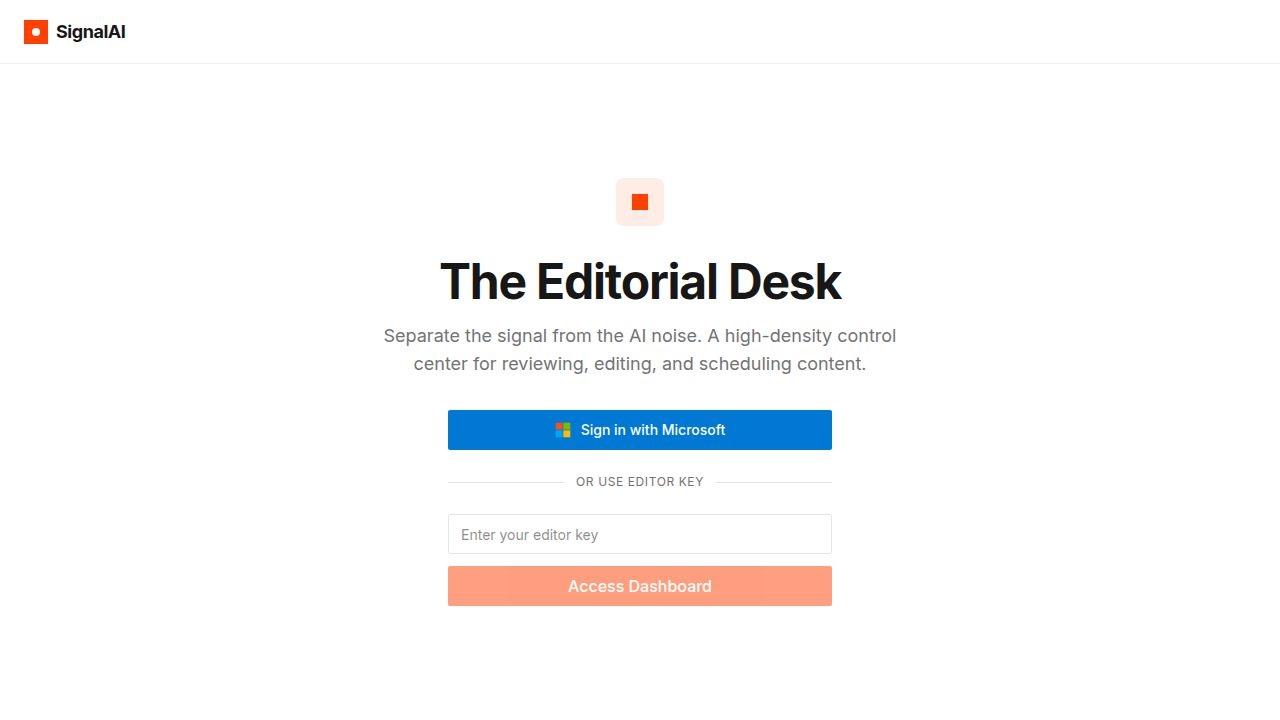
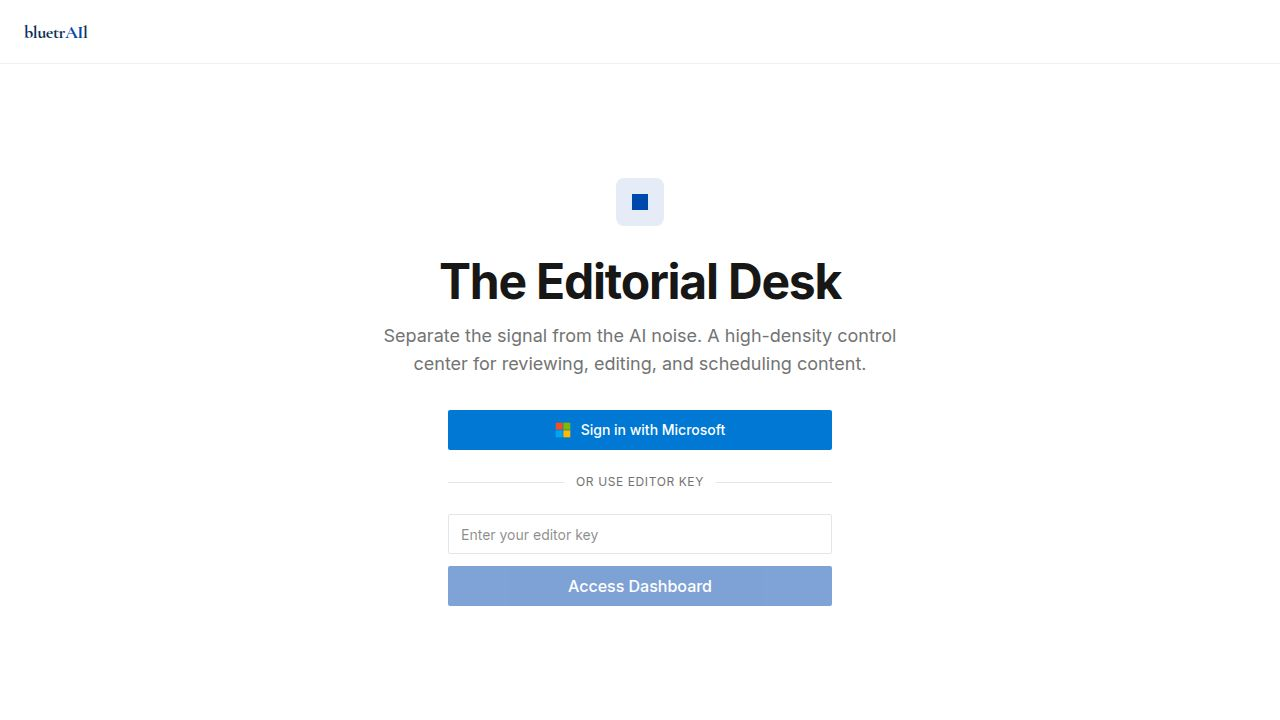
Add article type filter (Article / Case Study / Spotlight) to editorial queue
Task: Let editors filter the queue by article type (Article / Case Study / Spotlight)

## What changed
- Added `ArticleTypeFilter` type and `CASE_STUDY_CATEGORY` / `SPOTLIGHT_CATEGORY` slug
  constants directly in Queue.tsx (matching the values in api-server/src/lib/content.ts)
- Added `articleTypeFilter` state (`"all" | "article" | "case-study" | "spotlight"`) that
  persists across status tab switches
- Extended `filteredDrafts` with a `matchesTypeFilter()` helper that applies after the
  existing search filter, client-side only (no API changes)
- Added a shadcn/ui `<Select>` dropdown ("All types / Article / Case Study / Spotlight")
  in the queue toolbar header between the sort toggle and the Import button
- Updated `QueueEmptyState` to accept `articleTypeFilter` and show "No [Type] drafts"
  when a type filter is active and the list is empty (alongside existing search-empty state)

## No deviations from plan
- Implementation exactly matches the task spec: client-side only, no API/spec changes,
  uses existing shadcn Select component, filter persists across status tabs

## Files changed
- artifacts/dashboard/src/pages/Queue.tsx

Replit-Task-Id: 97366449-1e5a-4731-8048-92efddc00ec7

Changed region(s): [[0.3438, 0.7639, 0.6562, 0.8556], [0.4688, 0.2444, 0.5312, 0.3056], [0.0, 0.0306, 0.0938, 0.0611]]

diff --git a/artifacts/dashboard/src/pages/Queue.tsx b/artifacts/dashboard/src/pages/Queue.tsx
@@ -17,6 +17,13 @@ import { DraftStatusBadge } from "@/components/DraftStatusBadge";
 import { Input } from "@/components/ui/input";
 import { Button } from "@/components/ui/button";
 import { Card } from "@/components/ui/card";
+import {
+  Select,
+  SelectContent,
+  SelectItem,
+  SelectTrigger,
+  SelectValue,
+} from "@/components/ui/select";
 import { Calendar } from "@/components/ui/calendar";
 import { Popover, PopoverContent, PopoverTrigger } from "@/components/ui/popover";
 import {
@@ -54,8 +61,12 @@ import { cn } from "@/lib/utils";
 
 const API_BASE = "/api";
 
+const CASE_STUDY_CATEGORY = "case-study";
+const SPOTLIGHT_CATEGORY = "spotlight";
+
 type TabValue = "all" | "scheduled" | ArticleStatus;
 type SortKey = "editDate" | "publishDate";
+type ArticleTypeFilter = "all" | "article" | "case-study" | "spotlight";
 
 const STATUS_BORDER: Record<string, string> = {
   pending: "bg-orange-400",
@@ -79,6 +90,7 @@ export default function Queue({ initialTab = "all" }: { initialTab?: TabValue })
   const [activeTab, setActiveTab] = useState<TabValue>(initialTab);
   const [searchQuery, setSearchQuery] = useState("");
   const [sortBy, setSortBy] = useState<SortKey>("editDate");
+  const [articleTypeFilter, setArticleTypeFilter] = useState<ArticleTypeFilter>("all");
   const [rescheduleTarget, setRescheduleTarget] = useState<{ id: number; title: string } | null>(null);
   const [rescheduleDate, setRescheduleDate] = useState<Date | undefined>();
 
@@ -233,17 +245,26 @@ export default function Queue({ initialTab = "all" }: { initialTab?: TabValue })
     return [...list].sort((a, b) => new Date(b.updatedAt).getTime() - new Date(a.updatedAt).getTime());
   };
 
+  const matchesTypeFilter = (category: string) => {
+    if (articleTypeFilter === "all") return true;
+    if (articleTypeFilter === "case-study") return category === CASE_STUDY_CATEGORY;
+    if (articleTypeFilter === "spotlight") return category === SPOTLIGHT_CATEGORY;
+    return category !== CASE_STUDY_CATEGORY && category !== SPOTLIGHT_CATEGORY;
+  };
+
   const filteredDrafts = sortDrafts(
     activeTab === "scheduled"
       ? scheduledDrafts.filter(
           (d) =>
-            d.title.toLowerCase().includes(searchQuery.toLowerCase()) ||
-            d.category.toLowerCase().includes(searchQuery.toLowerCase())
+            matchesTypeFilter(d.category) &&
+            (d.title.toLowerCase().includes(searchQuery.toLowerCase()) ||
+              d.category.toLowerCase().includes(searchQuery.toLowerCase()))
         )
       : allDrafts.filter(
           (d) =>
-            d.title.toLowerCase().includes(searchQuery.toLowerCase()) ||
-            d.category.toLowerCase().includes(searchQuery.toLowerCase())
+            matchesTypeFilter(d.category) &&
+            (d.title.toLowerCase().includes(searchQuery.toLowerCase()) ||
+              d.category.toLowerCase().includes(searchQuery.toLowerCase()))
         )
   );
 
@@ -294,6 +315,18 @@ export default function Queue({ initialTab = "all" }: { initialTab?: TabValue })
               Publish date
             </button>
           </div>
+
+          <Select value={articleTypeFilter} onValueChange={(v) => { if (v) setArticleTypeFilter(v as ArticleTypeFilter); }}>
+            <SelectTrigger className="w-36 h-8 text-xs shrink-0">
+              <SelectValue placeholder="Type" />
+            </SelectTrigger>
+            <SelectContent>
+              <SelectItem value="all">All types</SelectItem>
+              <SelectItem value="article">Article</SelectItem>
+              <SelectItem value="case-study">Case Study</SelectItem>
+              <SelectItem value="spotlight">Spotlight</SelectItem>
+            </SelectContent>
+          </Select>
 
           <Button
             variant="outline"
@@ -393,7 +426,7 @@ export default function Queue({ initialTab = "all" }: { initialTab?: TabValue })
           }}
         />
       ) : filteredDrafts.length === 0 ? (
-        <QueueEmptyState tab={activeTab} searchQuery={searchQuery} />
+        <QueueEmptyState tab={activeTab} searchQuery={searchQuery} articleTypeFilter={articleTypeFilter} />
       ) : (
         <div className="space-y-2">
           {filteredDrafts.map((draft, i) => (
@@ -637,14 +670,25 @@ export default function Queue({ initialTab = "all" }: { initialTab?: TabValue })
   );
 }
 
-function QueueEmptyState({ tab, searchQuery }: { tab: TabValue; searchQuery: string }) {
-  if (searchQuery) {
+const ARTICLE_TYPE_LABELS: Record<ArticleTypeFilter, string> = {
+  all: "All types",
+  article: "Article",
+  "case-study": "Case Study",
+  spotlight: "Spotlight",
+};
+
+function QueueEmptyState({ tab, searchQuery, articleTypeFilter }: { tab: TabValue; searchQuery: string; articleTypeFilter: ArticleTypeFilter }) {
+  if (searchQuery || articleTypeFilter !== "all") {
     return (
       <div className="text-center py-20 border-2 border-dashed border-border rounded-xl">
         <div className="w-12 h-12 bg-muted rounded-full flex items-center justify-center mx-auto mb-3">
           <Search className="w-5 h-5 text-muted-foreground" />
         </div>
-        <h3 className="text-base font-semibold mb-1">No matches for "{searchQuery}"</h3>
+        <h3 className="text-base font-semibold mb-1">
+          {searchQuery
+            ? `No matches for "${searchQuery}"`
+            : `No ${ARTICLE_TYPE_LABELS[articleTypeFilter]} drafts`}
+        </h3>
         <p className="text-sm text-muted-foreground">Try a different search term or clear the filter.</p>
       </div>
     );